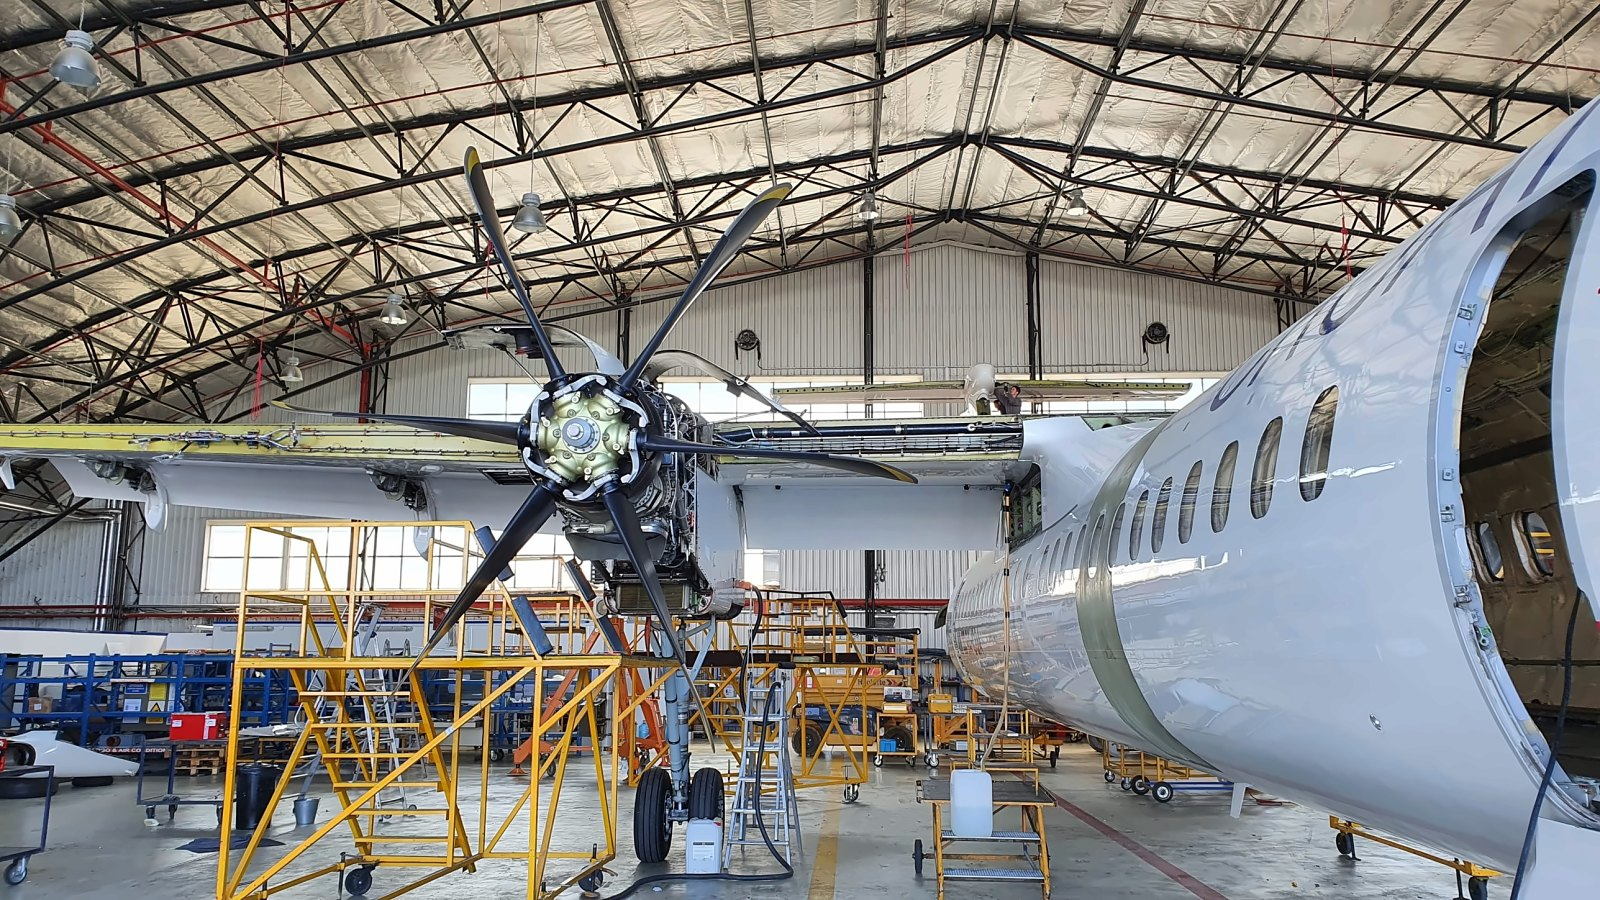
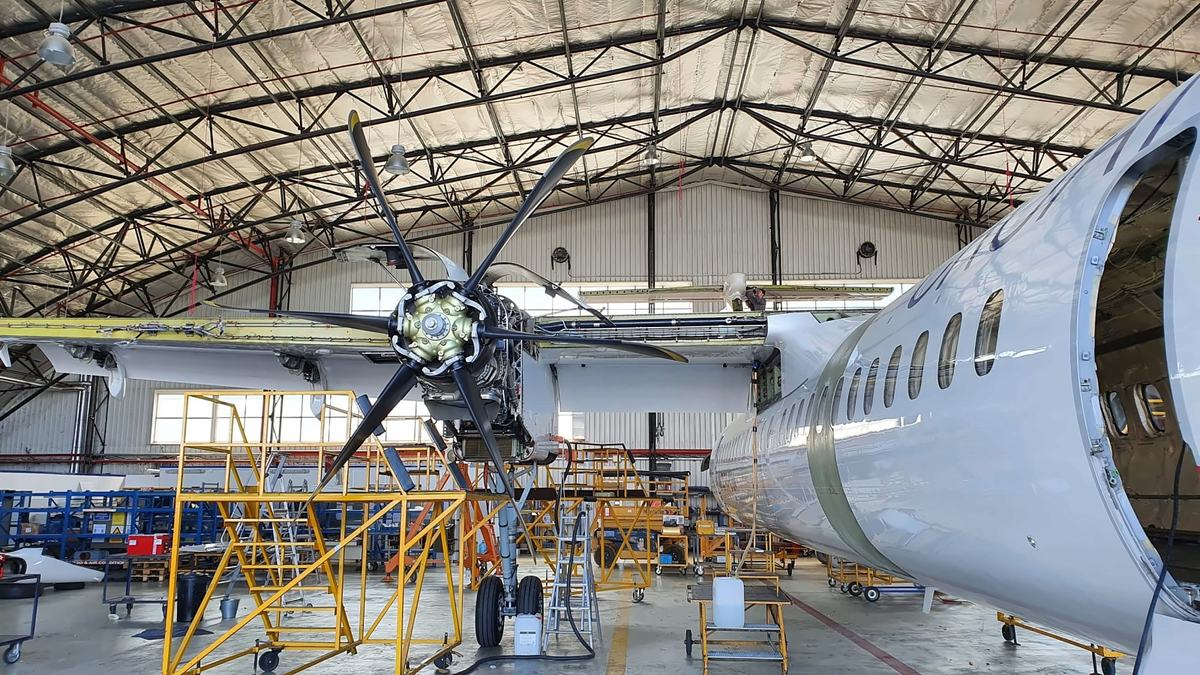
SEO: robots.txt, sitemap.xml, schema.org structured data, video alt text, lighter pre-buy photo
Claude-Session: https://claude.ai/code/session_01UZKG9xxP6HcBXiLUhxzc7x

diff --git a/index.html b/index.html
@@ -114,6 +114,97 @@ window.scrollTo(0,0);
 window.addEventListener('load',function(){window.scrollTo(0,0);});
 window.addEventListener('pageshow',function(e){if(e.persisted)window.scrollTo(0,0);});
 </script>
+<script type="application/ld+json">
+{
+ "@context": "https://schema.org",
+ "@graph": [
+  {
+   "@type": "Organization",
+   "@id": "https://www.xlturbine.com/#org",
+   "name": "XL Turbine",
+   "legalName": "XL Turbine d.o.o.",
+   "url": "https://www.xlturbine.com/",
+   "logo": "https://www.xlturbine.com/icon-512.png",
+   "email": "sales@xlturbine.com",
+   "telephone": "+385 98 417 828",
+   "address": {
+    "@type": "PostalAddress",
+    "streetAddress": "Kninski trg 17",
+    "postalCode": "10000",
+    "addressLocality": "Zagreb",
+    "addressCountry": "HR"
+   },
+   "hasCredential": {
+    "@type": "EducationalOccupationalCredential",
+    "name": "EASA Part 145 Maintenance Organisation Approval HR.145.051",
+    "credentialCategory": "EASA Part 145 approval",
+    "recognizedBy": {
+     "@type": "Organization",
+     "name": "Croatian Civil Aviation Agency (CCAA)"
+    }
+   },
+   "contactPoint": {
+    "@type": "ContactPoint",
+    "contactType": "sales",
+    "telephone": "+385 98 417 828",
+    "email": "sales@xlturbine.com",
+    "availableLanguage": [
+     "English",
+     "Croatian"
+    ],
+    "areaServed": "Worldwide"
+   }
+  },
+  {
+   "@type": "LocalBusiness",
+   "@id": "https://www.xlturbine.com/#workshop",
+   "name": "XL Turbine – Part 145 fuel nozzle workshop",
+   "parentOrganization": {
+    "@id": "https://www.xlturbine.com/#org"
+   },
+   "url": "https://www.xlturbine.com/",
+   "image": "https://www.xlturbine.com/og-image.jpg",
+   "telephone": "+385 98 417 828",
+   "email": "sales@xlturbine.com",
+   "address": {
+    "@type": "PostalAddress",
+    "streetAddress": "Josipa Zorića 133",
+    "postalCode": "10370",
+    "addressLocality": "Dugo Selo",
+    "addressCountry": "HR"
+   },
+   "areaServed": "Worldwide",
+   "description": "EASA Part 145 (HR.145.051) shop for testing, repair and exchange of Pratt & Whitney Canada PT6A, PT6T, PT6C and PW200 fuel nozzles, plus independent pre-purchase aircraft inspections.",
+   "makesOffer": [
+    {
+     "@type": "Offer",
+     "itemOffered": {
+      "@type": "Service",
+      "name": "Fuel nozzle testing and repair",
+      "description": "Flow testing, spray pattern check, cleaning and repair of P&WC PT6A, PT6T, PT6C and PW200 fuel nozzles."
+     }
+    },
+    {
+     "@type": "Offer",
+     "itemOffered": {
+      "@type": "Service",
+      "name": "Fuel nozzle exchange",
+      "description": "Exchange fuel nozzle sets on stock, ready to ship from Zagreb."
+     }
+    },
+    {
+     "@type": "Offer",
+     "itemOffered": {
+      "@type": "Service",
+      "name": "Pre-buy inspection",
+      "description": "Independent pre-purchase inspections for all aircraft types."
+     }
+    }
+   ]
+  }
+ ]
+}
+</script>
 </head><body>
 <div id="page-en" lang="en">
 
@@ -430,7 +521,7 @@ Watch the test stand in action
 <div style="font-family: 'IBM Plex Mono', ui-monospace, monospace; font-size: 13px; letter-spacing: 0.12em; color: var(--accent); margin-bottom: 12px">SEE IT IN ACTION</div>
 <h2 style="margin: 0 0 32px; font-size: clamp(28px, 3.4vw, 40px); line-height: 1.15; font-weight: 700">Our fuel nozzle test stand.</h2>
 <button type="button" class="yt" data-id="CQKw4jsEMTg" aria-label="Watch the XL Turbine test stand video on YouTube">
-<img src="assets/video-poster.jpg" alt="" loading="lazy" width="1280" height="720">
+<img src="assets/video-poster.jpg" alt="XL Turbine fuel nozzle test stand – video" loading="lazy" width="1280" height="720">
 <span class="yt-play"><svg aria-hidden="true" width="26" height="26" viewBox="0 0 24 24" fill="#0A0A0A"><path d="M7 4l13 8-13 8z"></path></svg></span>
 <span class="yt-label">Play video</span>
 </button>
